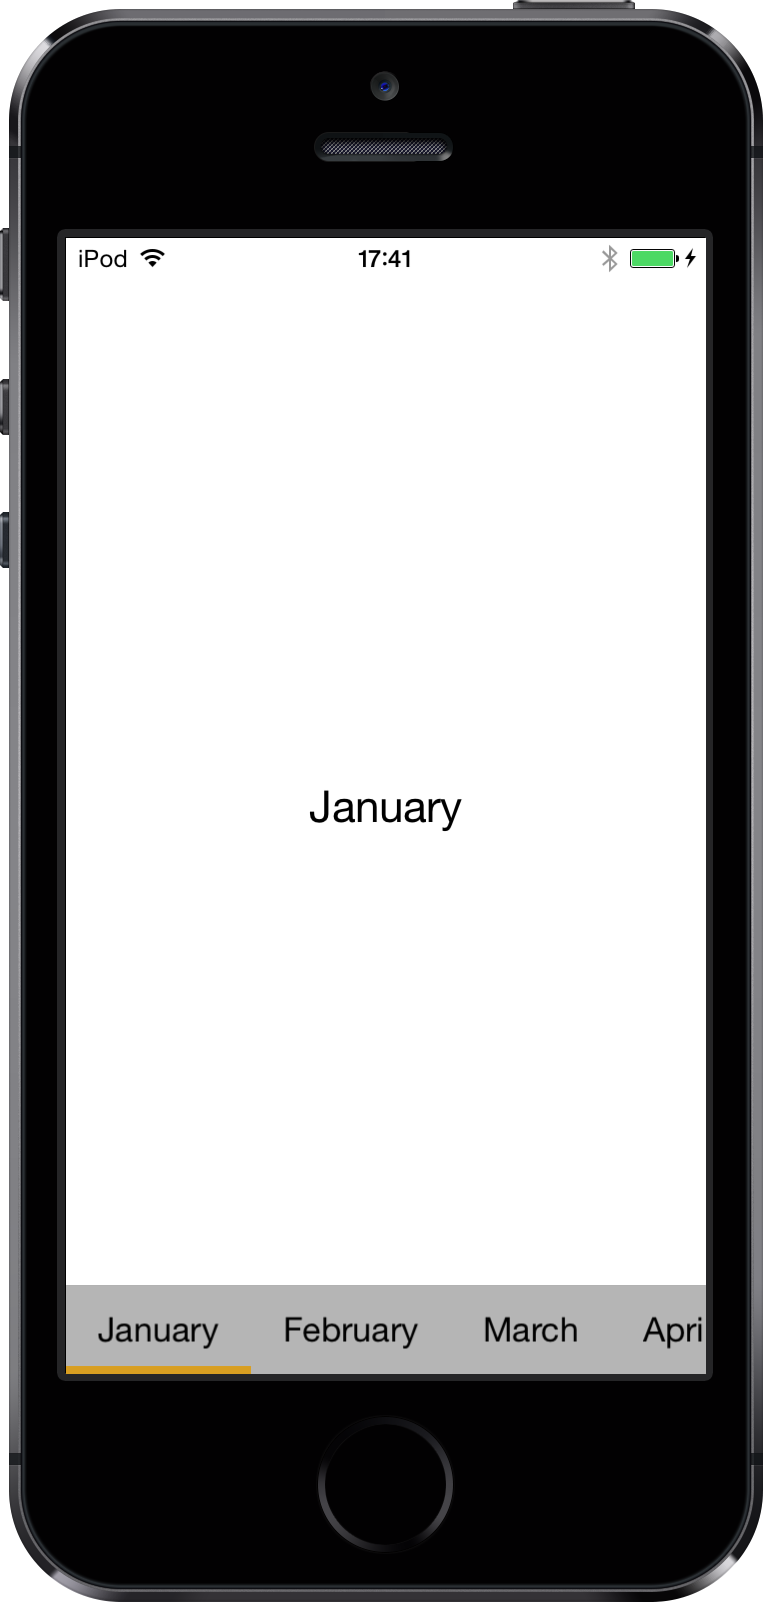
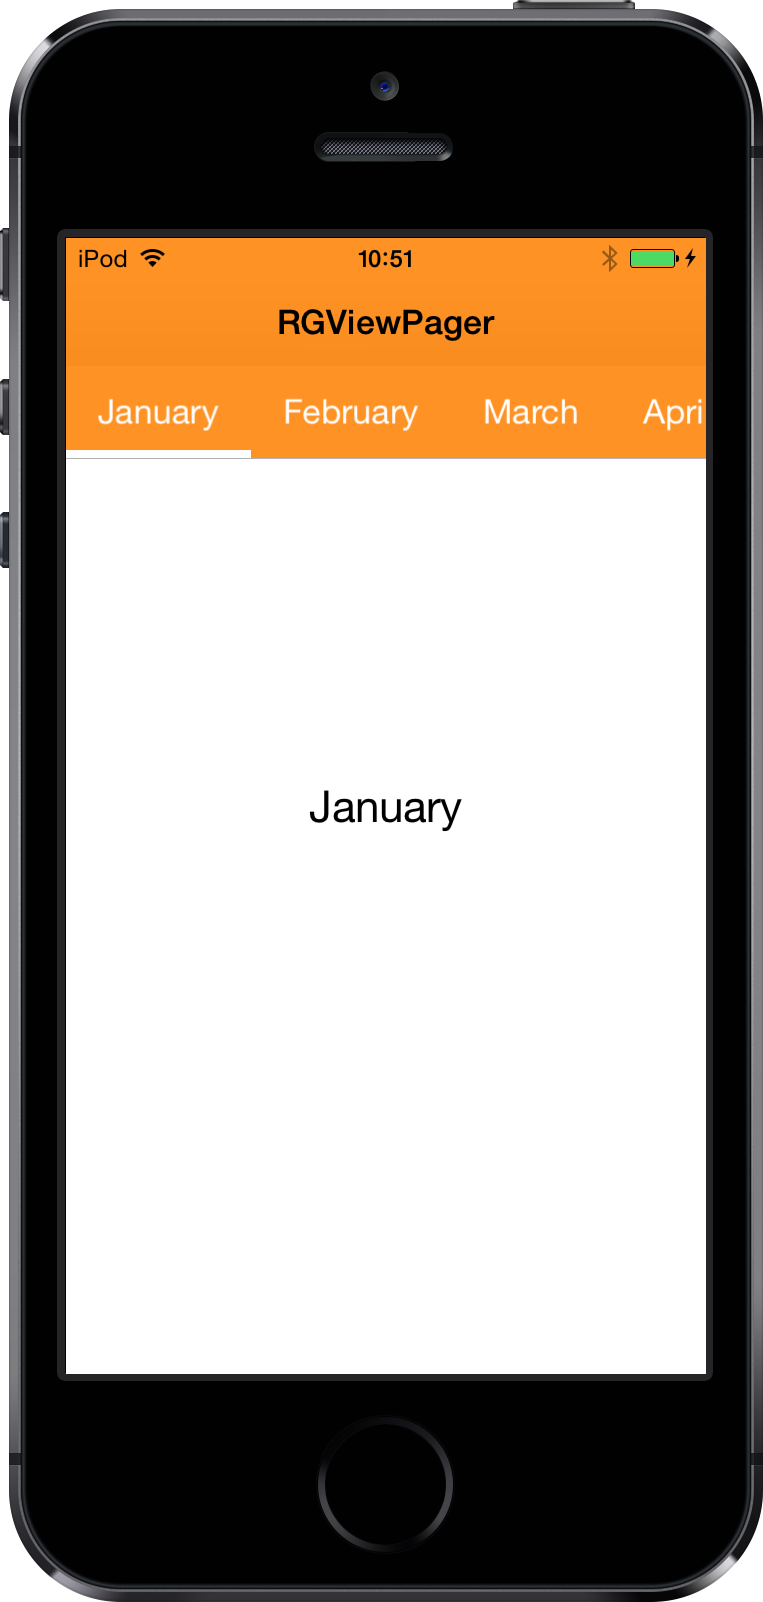
hides UINavigationBar Hairline if contained in UINavigationController and Tabbar attached to Top

Changed region(s): [[0.0603, 0.1248, 0.9345, 0.3121], [0.0603, 0.7803, 0.9345, 0.8739]]

diff --git a/RGPageViewController.swift b/RGPageViewController.swift
@@ -76,6 +76,17 @@ class RGPageViewController: UIViewController, UIPageViewControllerDataSource, UI
         // add constraints
         // tabbar constraints
         if self.tabbarPosition == UIBarPosition.Top || self.tabbarPosition == UIBarPosition.TopAttached {
+            // remove hairline image in navigation bar
+            if self.topLayoutGuide.length == 64.0 {
+                let navBar: UINavigationBar? = self.navigationController?.navigationBar
+                
+                if navBar != nil {
+                    let hairlineView: UIImageView? = self.findHairlineImageView(containedIn: navBar!)
+                    
+                    hairlineView?.hidden = true
+                }
+            }
+            
             viewConstraints.addObject(NSLayoutConstraint(item: self.tabbar, attribute: NSLayoutAttribute.Top, relatedBy: NSLayoutRelation.Equal, toItem: self.topLayoutGuide, attribute: NSLayoutAttribute.Bottom, multiplier: 1.0, constant: 0.0))
         } else if self.tabbarPosition == UIBarPosition.Bottom {
             viewConstraints.addObject(NSLayoutConstraint(item: self.tabbar, attribute: NSLayoutAttribute.Bottom, relatedBy: NSLayoutRelation.Equal, toItem: self.bottomLayoutGuide, attribute: NSLayoutAttribute.Top, multiplier: 1.0, constant: 0.0))
@@ -321,6 +332,22 @@ class RGPageViewController: UIViewController, UIPageViewControllerDataSource, UI
     
     func indexForViewController(vc: UIViewController) -> (Int) {
         return self.pageViewControllers.indexOfObject(vc)
+    }
+    
+    func findHairlineImageView(containedIn view: UIView) -> UIImageView? {
+        if view is UIImageView && view.bounds.size.height <= 1.0 {
+            return view as? UIImageView
+        }
+        
+        for subview in view.subviews {
+            let imageView: UIImageView? = self.findHairlineImageView(containedIn: subview as UIView)
+            
+            if imageView != nil {
+                return imageView
+            }
+        }
+        
+        return nil
     }
     
     // MARK: - Interface rotation

diff --git a/RGViewPager/MainViewController.swift b/RGViewPager/MainViewController.swift
@@ -61,24 +61,4 @@ class MainViewController: RGPageViewController, RGPageViewControllerDataSource, 
         
         return tabSize.width + 32.0
     }
-    
-    func positionForTabbar(bar: UIBarPositioning) -> UIBarPosition {
-        return UIBarPosition.Bottom
-    }
-    
-    func heightForTabbar() -> CGFloat {
-        return 44.0
-    }
-    
-    func heightForIndicator() -> CGFloat {
-        return 6.0
-    }
-    
-    func colorForTabIndicator() -> UIColor {
-        return UIColor(red: 0.84705882352941, green: 0.61960784313725, blue: 0.12941176470588, alpha: 1.0)
-    }
-    
-    func tintColorForTabBar() -> UIColor {
-        return UIColor.lightGrayColor()
-    }
 }
